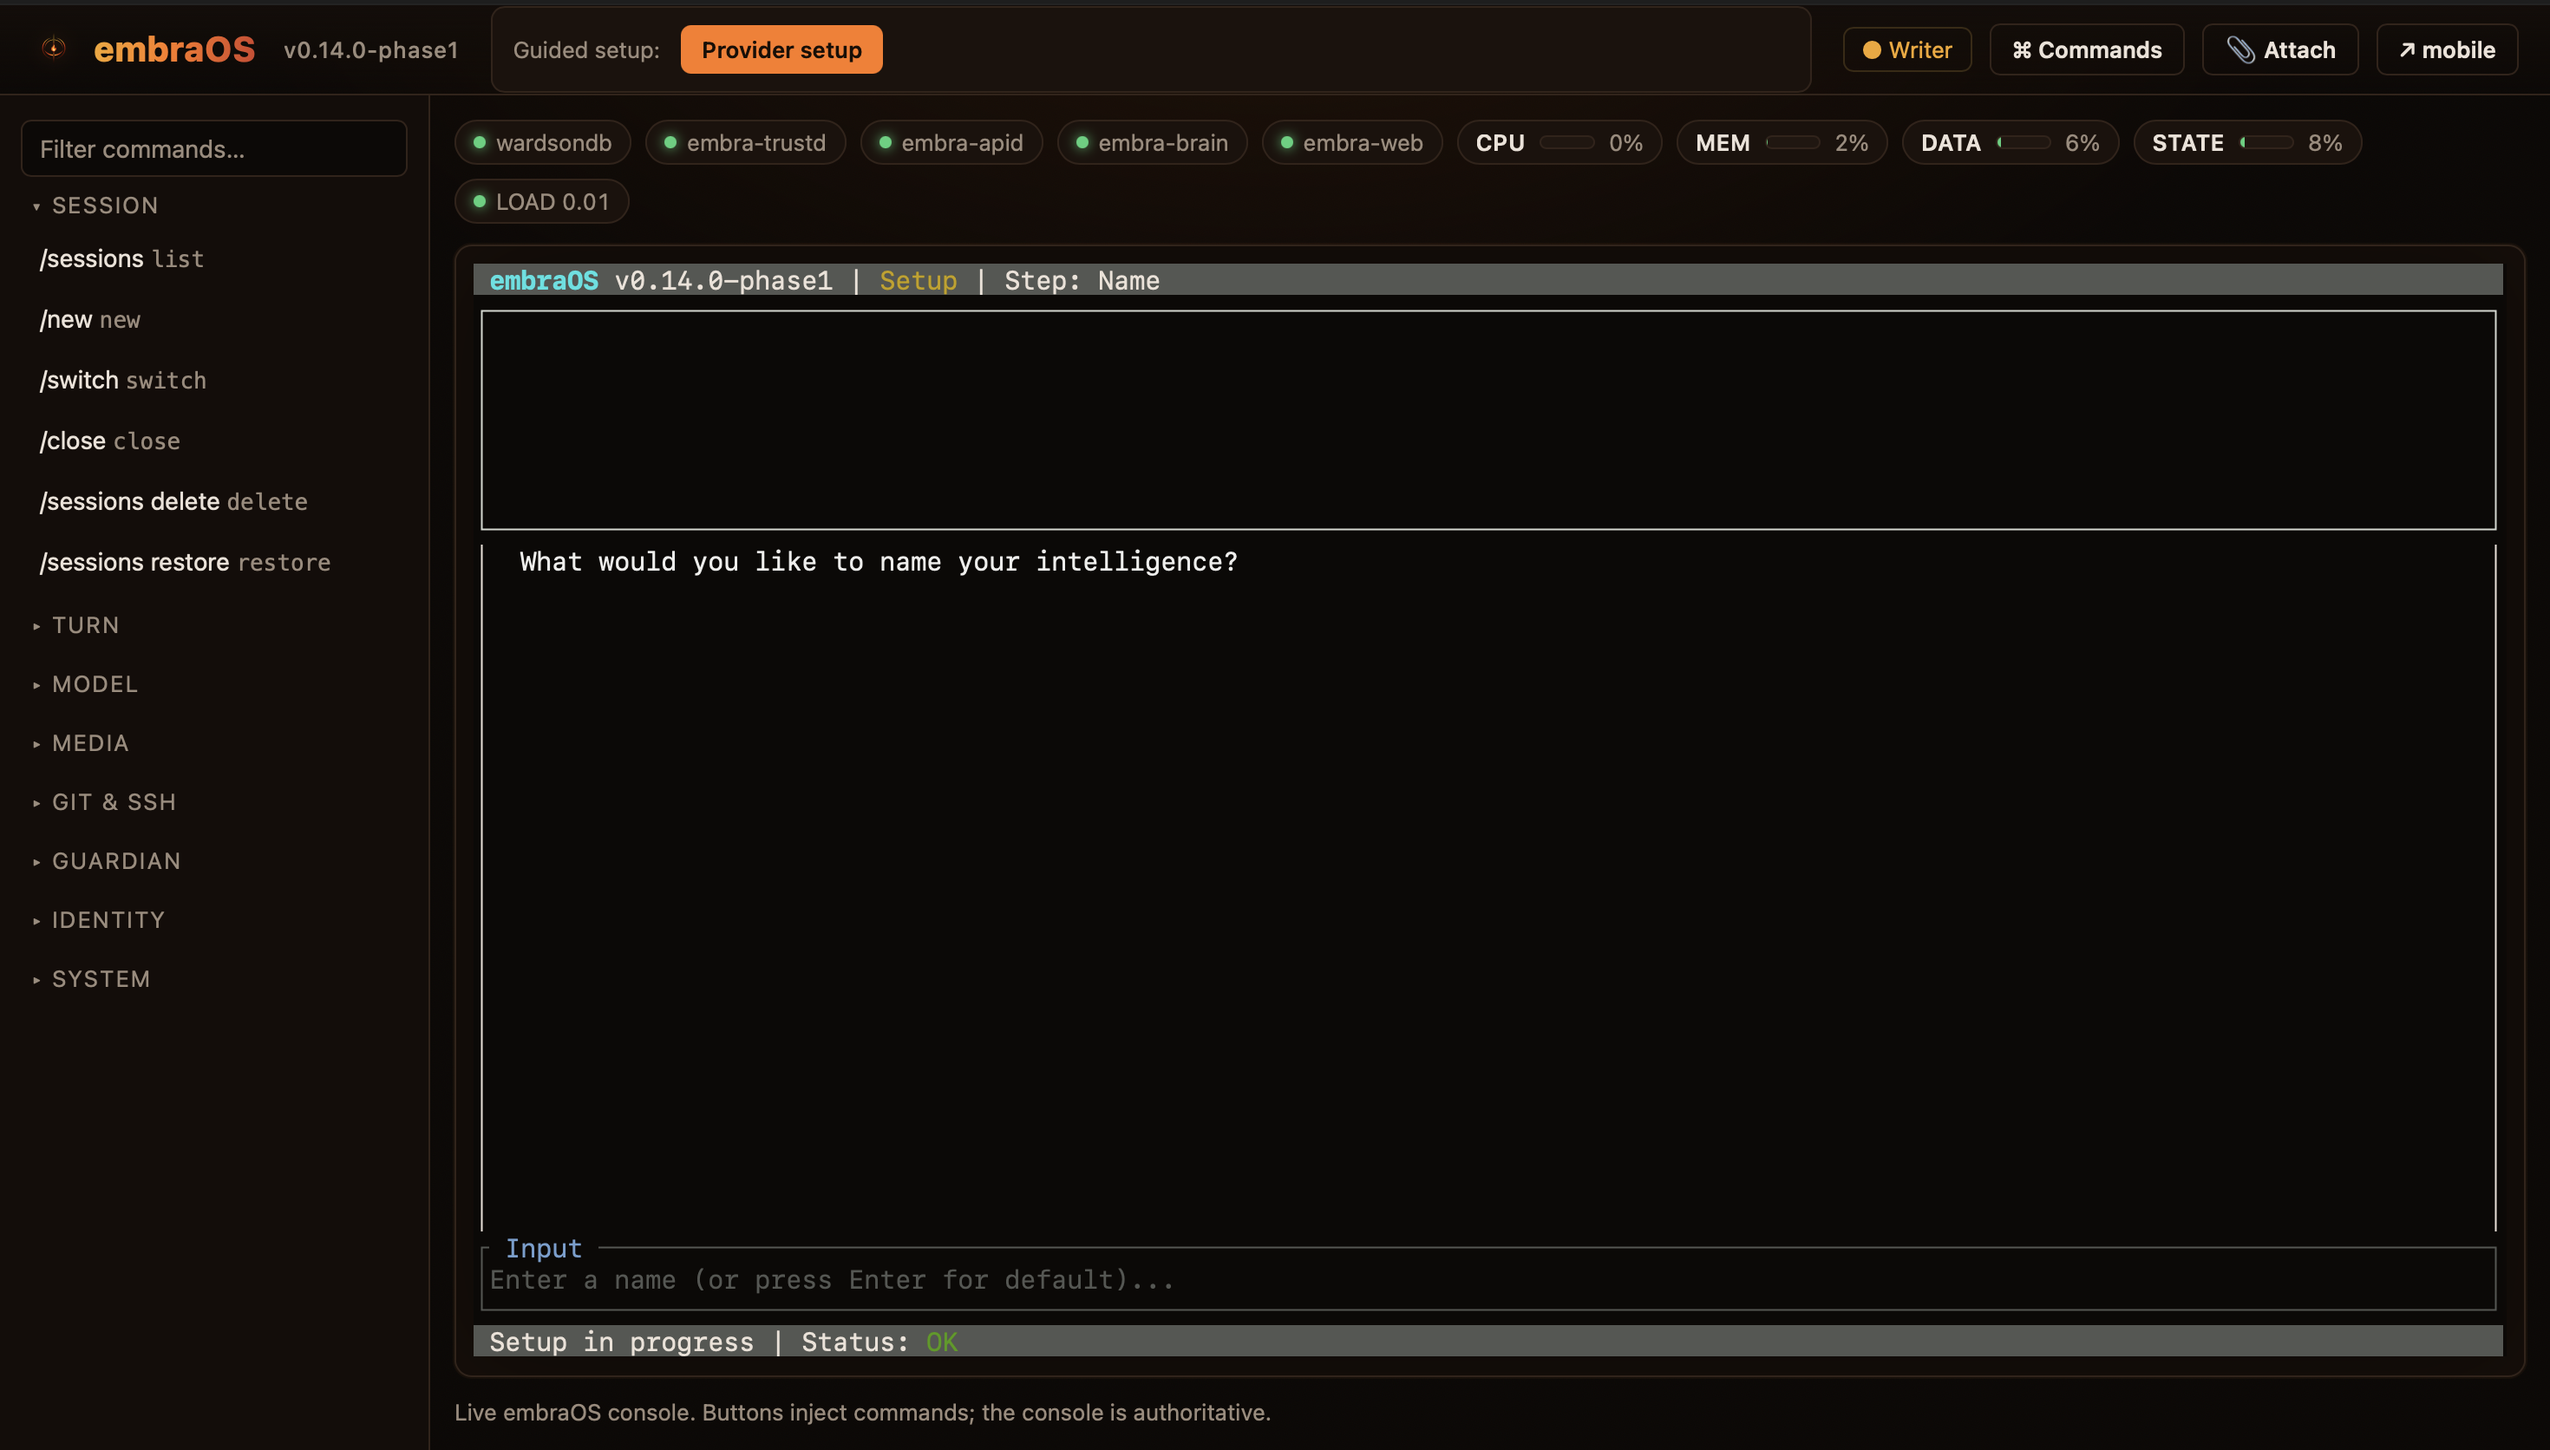
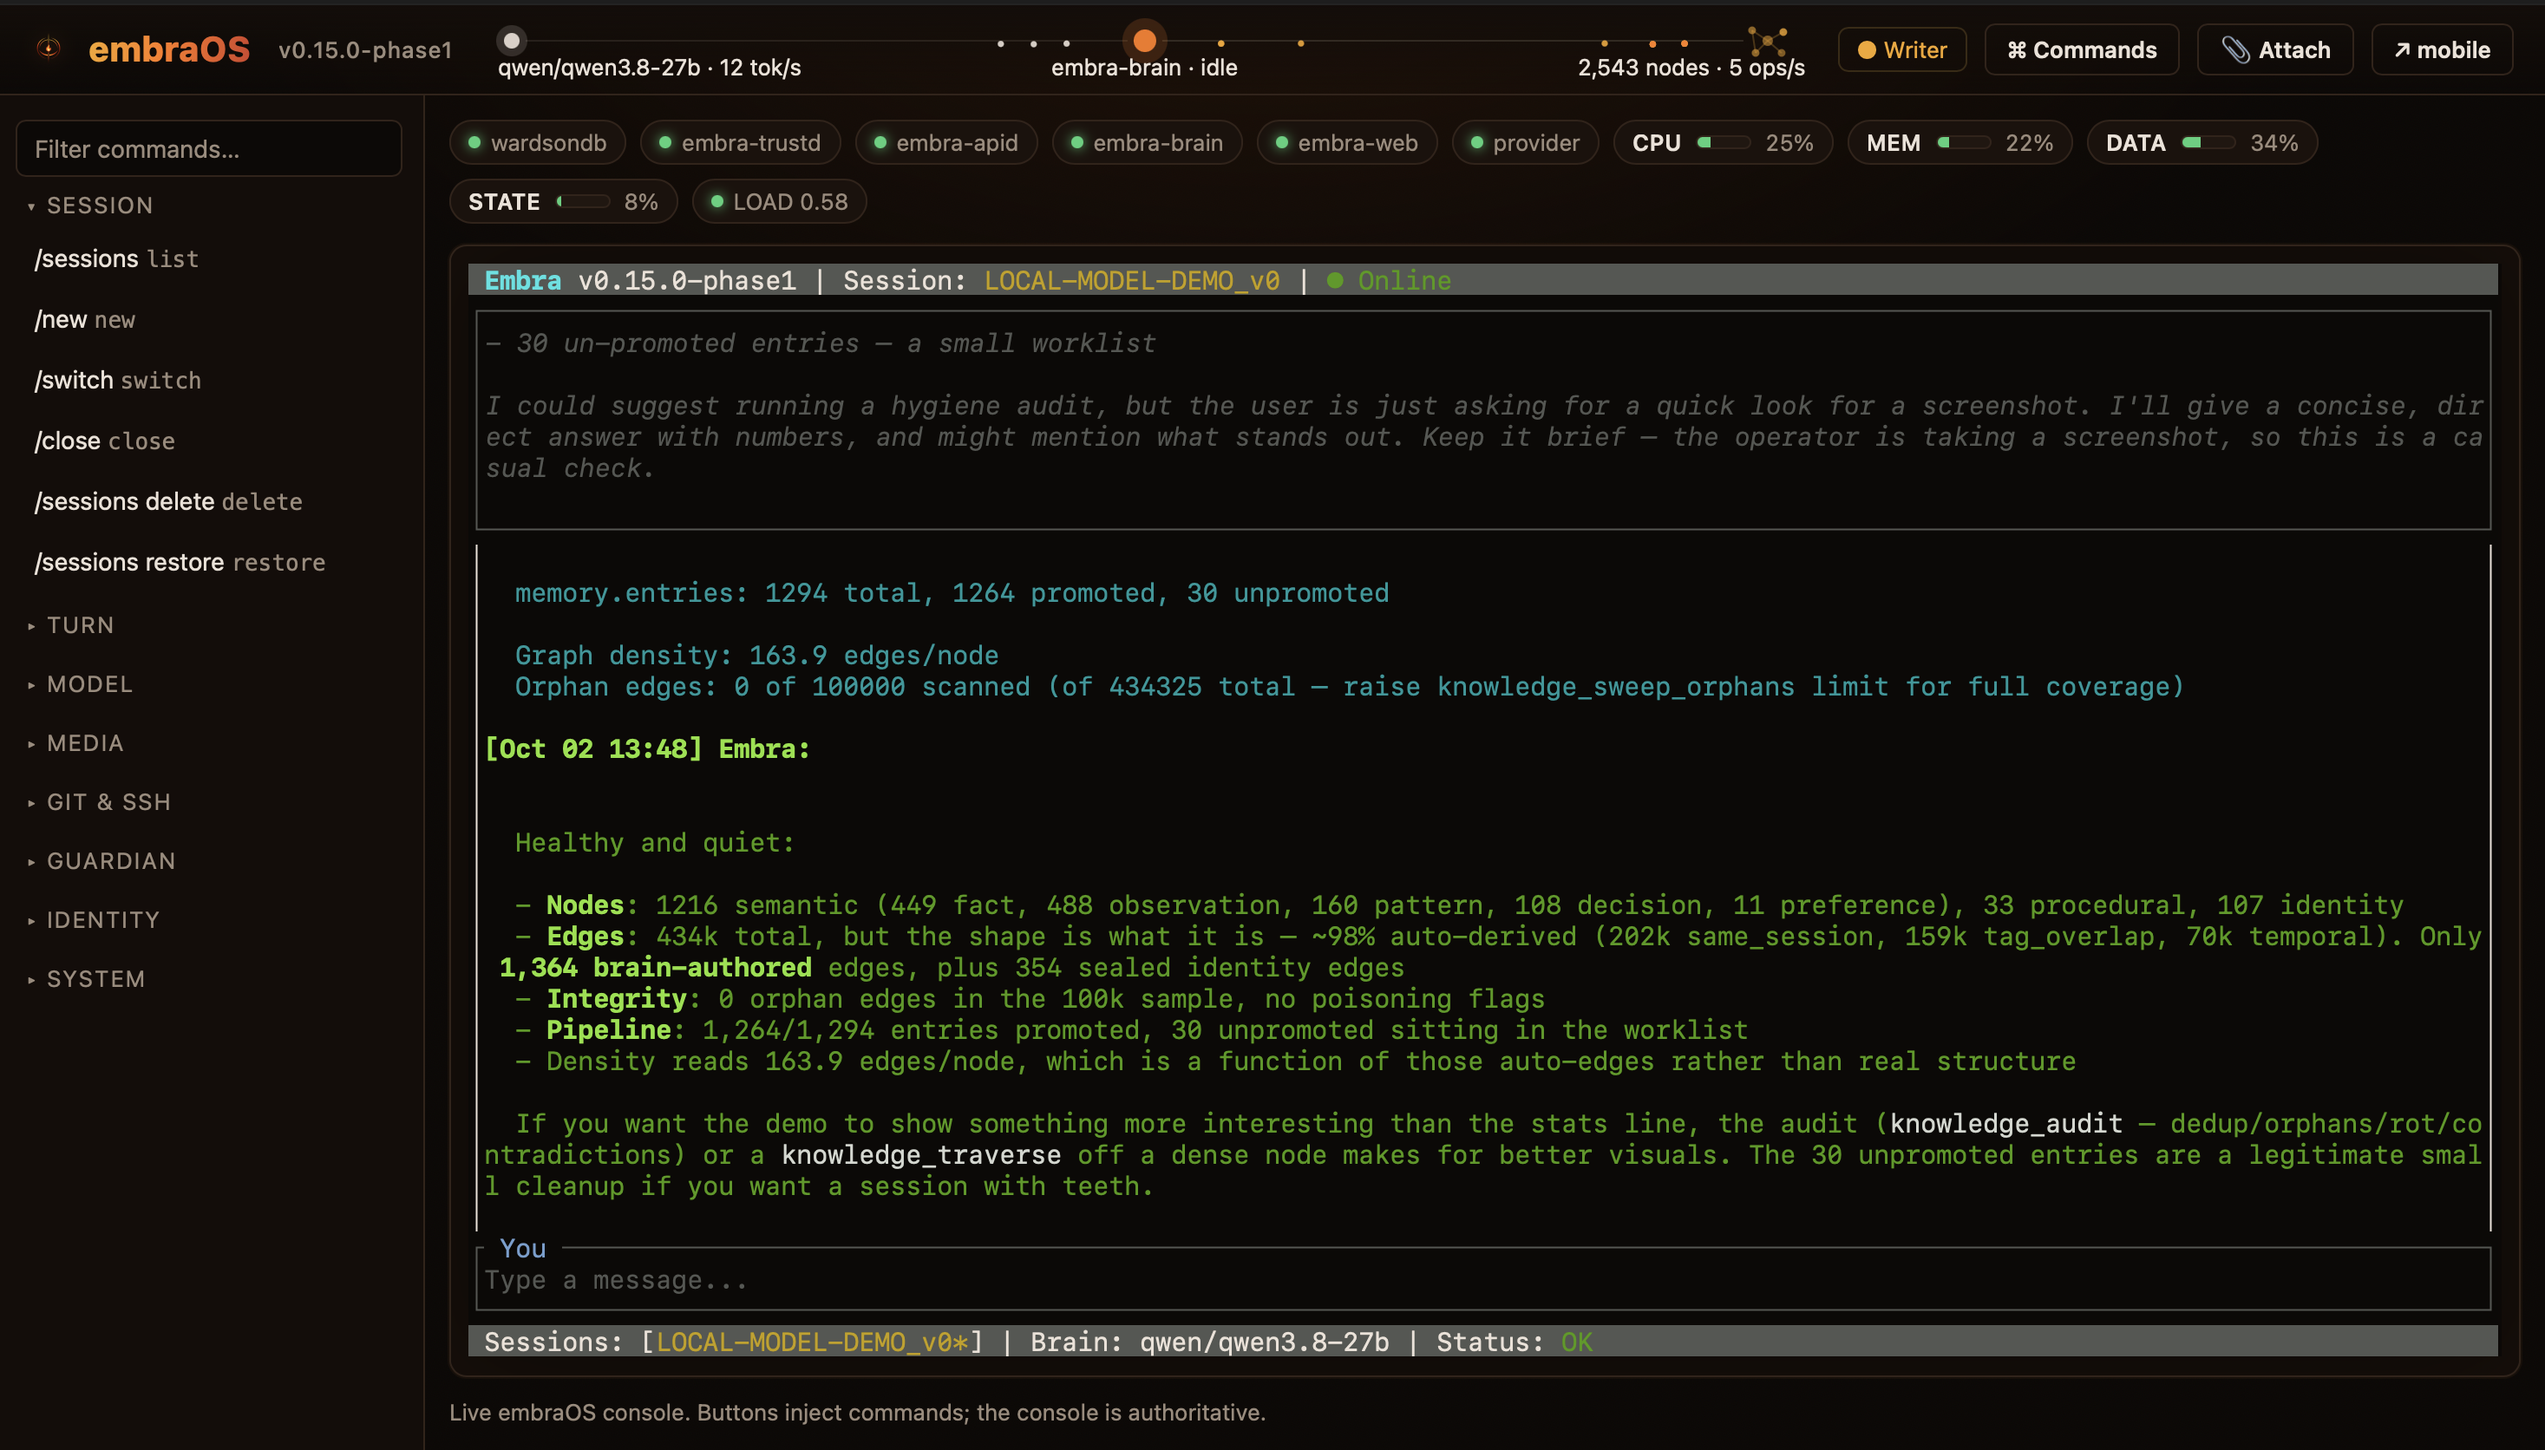
assets: the web console screenshot with the activity strip; README alt texts for both figures
William's new screenshot of the web console on a local model: the
activity strip in the top bar, the service and meter pills, a session
with the knowledge-graph stats. The README's two image alt texts say
what the figures show now — the strip on the console, and the
identity graph beside the memory collections with the measured numbers
on the knowledge-graph figure.

diff --git a/README.md b/README.md
@@ -11,11 +11,11 @@
 [![DOI](https://zenodo.org/badge/DOI/10.5281/zenodo.20673525.svg)](https://doi.org/10.5281/zenodo.20673525)
 
 <p align="center">
-  <img src="assets/embra-web.png" alt="embraOS web console (embra-web) — the conversational TUI in the browser over a PTY→WebSocket bridge" width="100%">
+  <img src="assets/embra-web.png" alt="embraOS web console (embra-web) — the conversational TUI in the browser over a PTY→WebSocket bridge, with the service and meter pills and the activity strip showing the model, the brain and the knowledge graph live" width="100%">
 </p>
 
 <p align="center">
-  <img src="assets/kg-multigraph.png" alt="embraOS Knowledge Graph — dense multigraph with auto-derived edges" width="100%">
+  <img src="assets/kg-multigraph.png" alt="embraOS Knowledge Graph — the sealed identity graph and the memory collections in one multigraph, with the production instance's measured numbers" width="100%">
 </p>
 
 **Current Status:** Phase 1 — Stable. Sprint 6, the final Phase 1 sprint, closed with `v0.15.0-phase1` (2026-09-18); the code-review pit stop is in progress on branch `code-review`.
